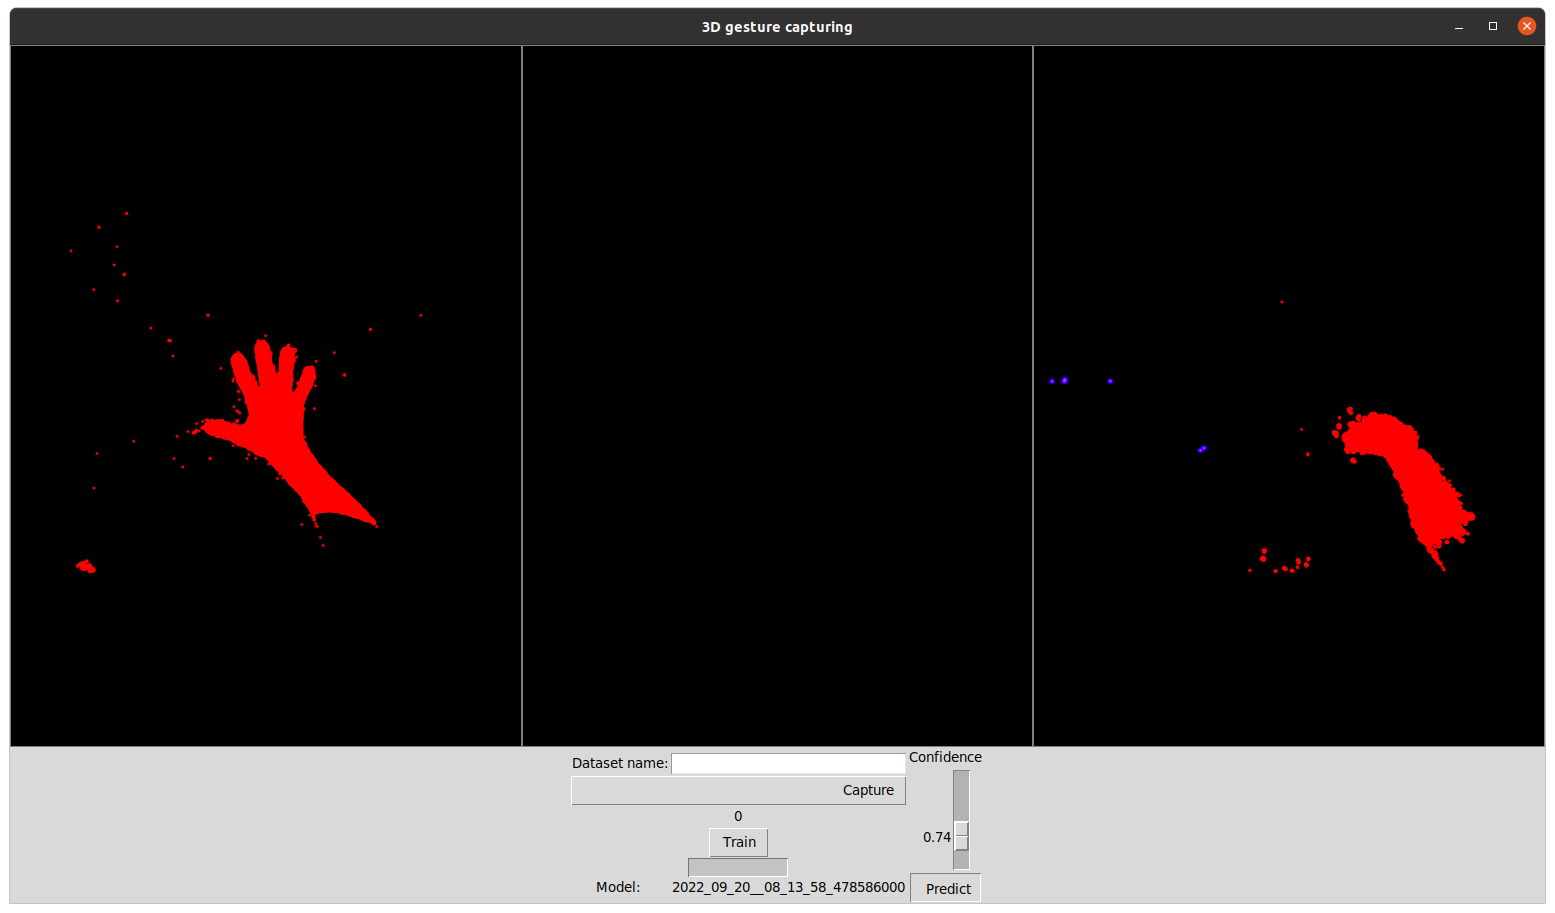
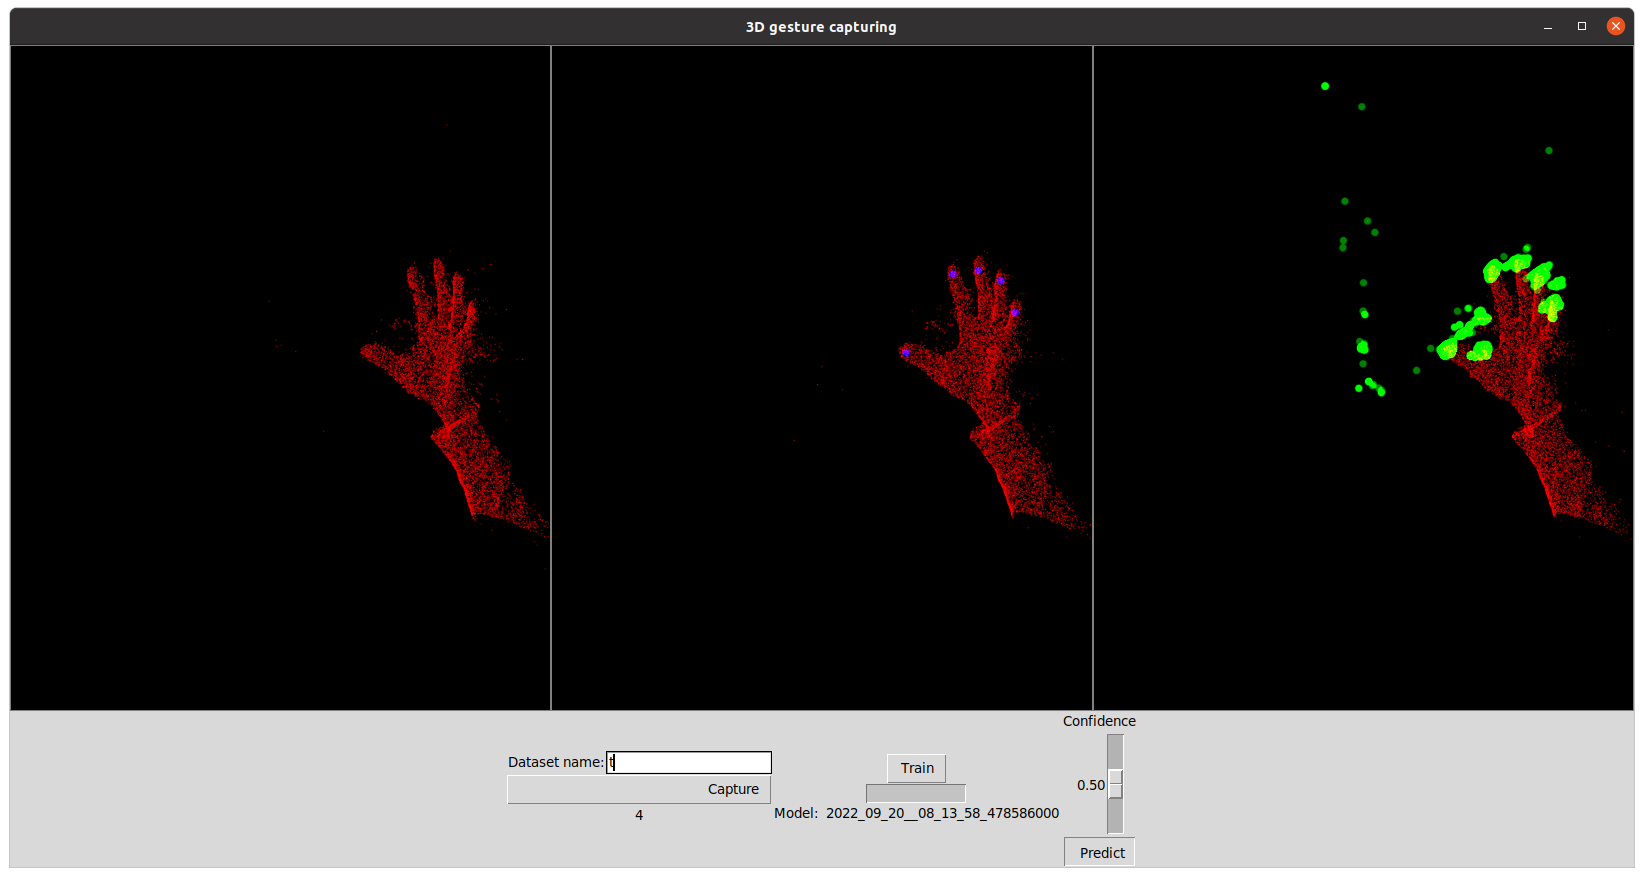
update screenshot + fix subsampling

diff --git a/ui/vispy_view.py b/ui/vispy_view.py
@@ -18,7 +18,14 @@ class VispyMarkers(vispy.scene.Markers):
         if pos is None:
             pos_non_optional: np.ndarray = np.array([[0., 0., 0.]])
         else:
-            pos_non_optional = pos[np.random.choice(len(pos), size=10000, replace=False), :]
+            if len(pos) == 0:
+                pos_non_optional = pos
+            else:
+                selection_size = min(10000, len(pos))
+                selection = np.random.choice(
+                    len(pos), size=selection_size, replace=False
+                )
+                pos_non_optional = pos[selection, :]
 
         super().set_data(
             pos=pos_non_optional, edge_width=0.0,
